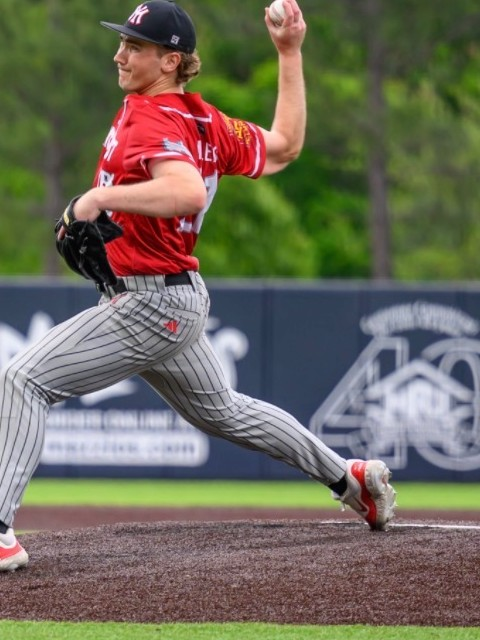
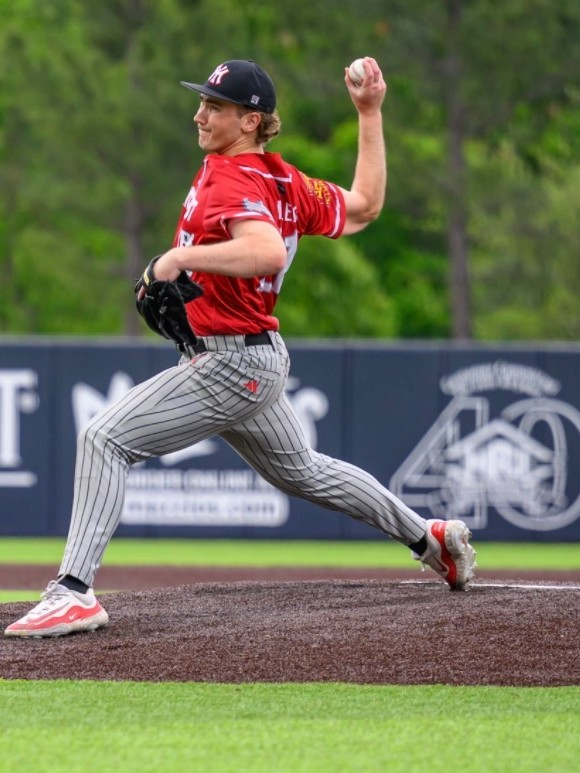
Keep Clayton Strange fully in the player photo slot.
Give the mound crop room around his cap and feet, stop the bio grid from stretching the picture into a square, and contain photos so rounded corners cannot clip him.

diff --git a/src/components/player-bio-dialog.tsx b/src/components/player-bio-dialog.tsx
@@ -84,7 +84,7 @@ export function PlayerBioDialog({
                   label="Player photo"
                   src={player.photo}
                   alt={fullName(player)}
-                  className="aspect-[3/4] w-full rounded-xl ring-1 ring-white/10"
+                  className="aspect-[3/4] w-full self-start rounded-xl ring-1 ring-white/10"
                 />
                 <div className="min-w-0 pr-8">
                   <p className="text-[0.68rem] font-semibold tracking-[0.32em] text-red-400 uppercase">

diff --git a/src/components/coach-bio-dialog.tsx b/src/components/coach-bio-dialog.tsx
@@ -92,7 +92,7 @@ export function CoachBioDialog({
                   label="Staff photo coming"
                   src={coach.photo}
                   alt={coach.name}
-                  className="aspect-[4/5] w-full rounded-xl ring-1 ring-white/10"
+                  className="aspect-[4/5] w-full self-start rounded-xl ring-1 ring-white/10"
                 />
                 <div className="min-w-0 pr-8">
                   <p className="text-[0.68rem] font-semibold tracking-[0.32em] text-red-400 uppercase">

diff --git a/src/components/photo-slot.tsx b/src/components/photo-slot.tsx
@@ -17,7 +17,7 @@ export function PhotoSlot({ label, className, src, alt }: PhotoSlotProps) {
           src={src}
           alt={alt ?? label}
           fill
-          className="object-cover object-top"
+          className="object-contain object-top"
         />
       </div>
     );
